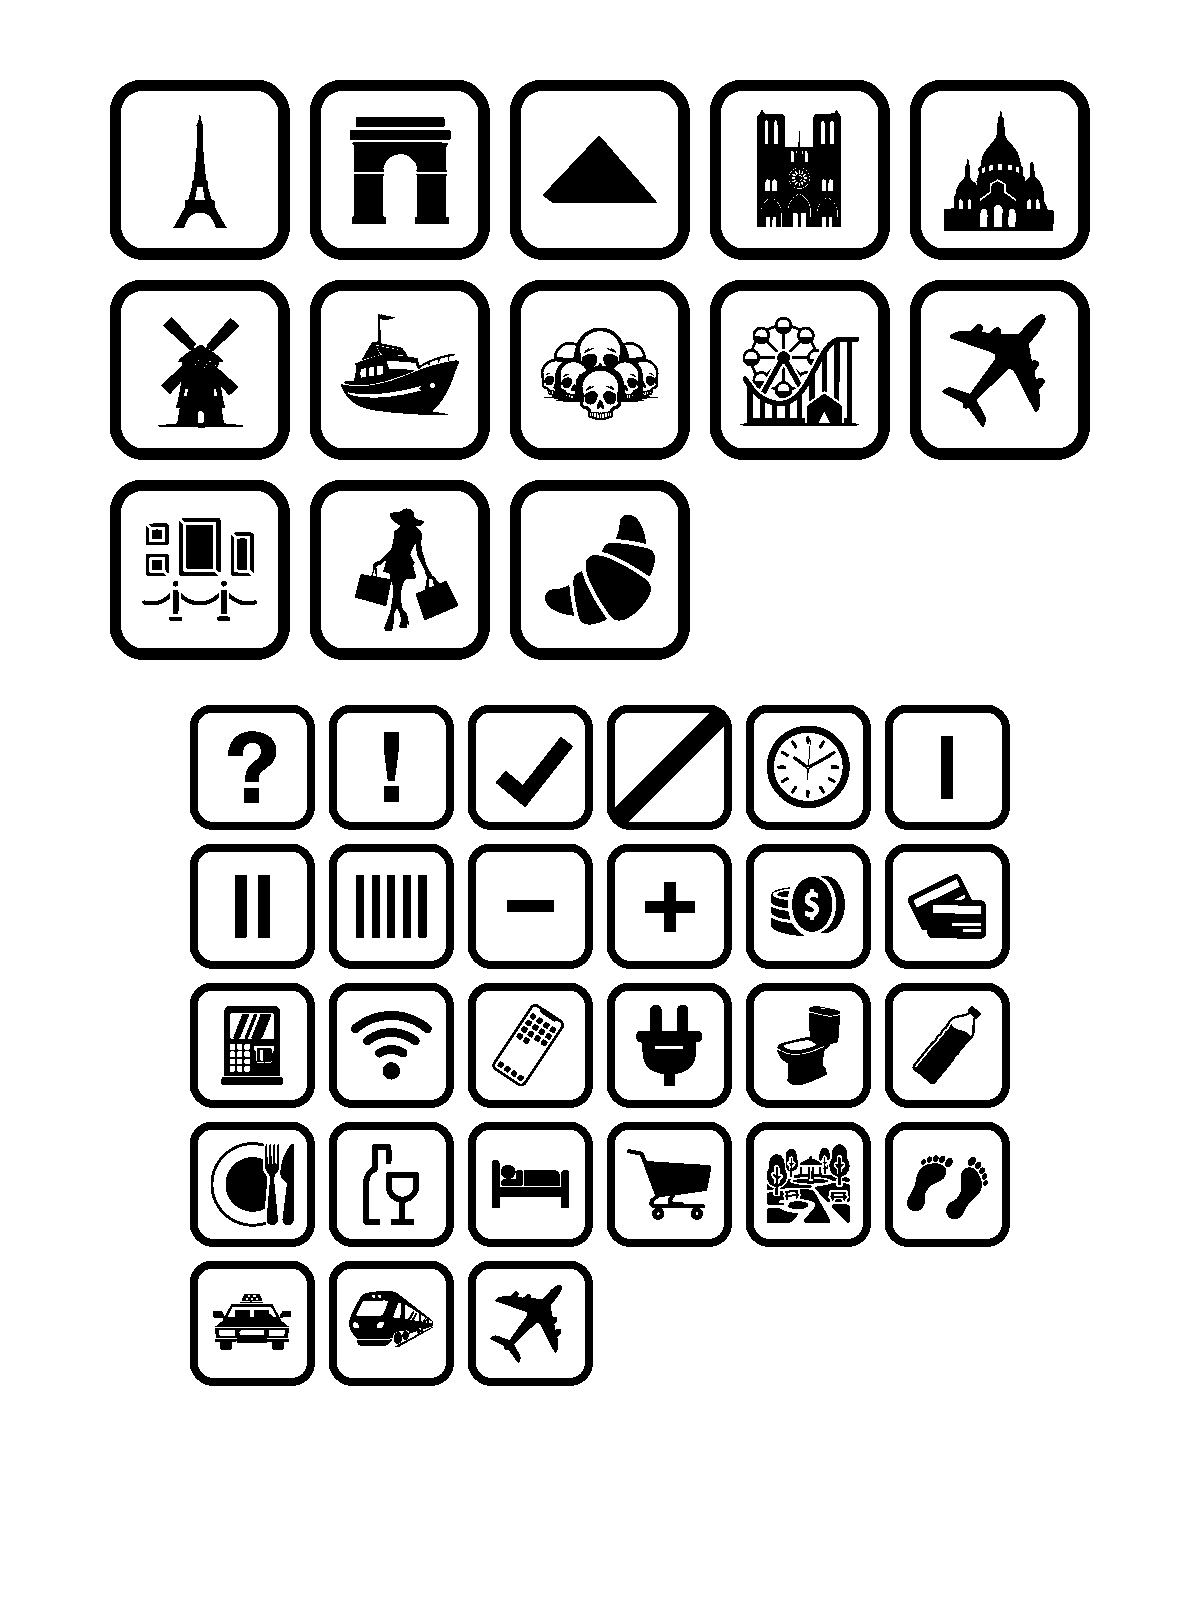
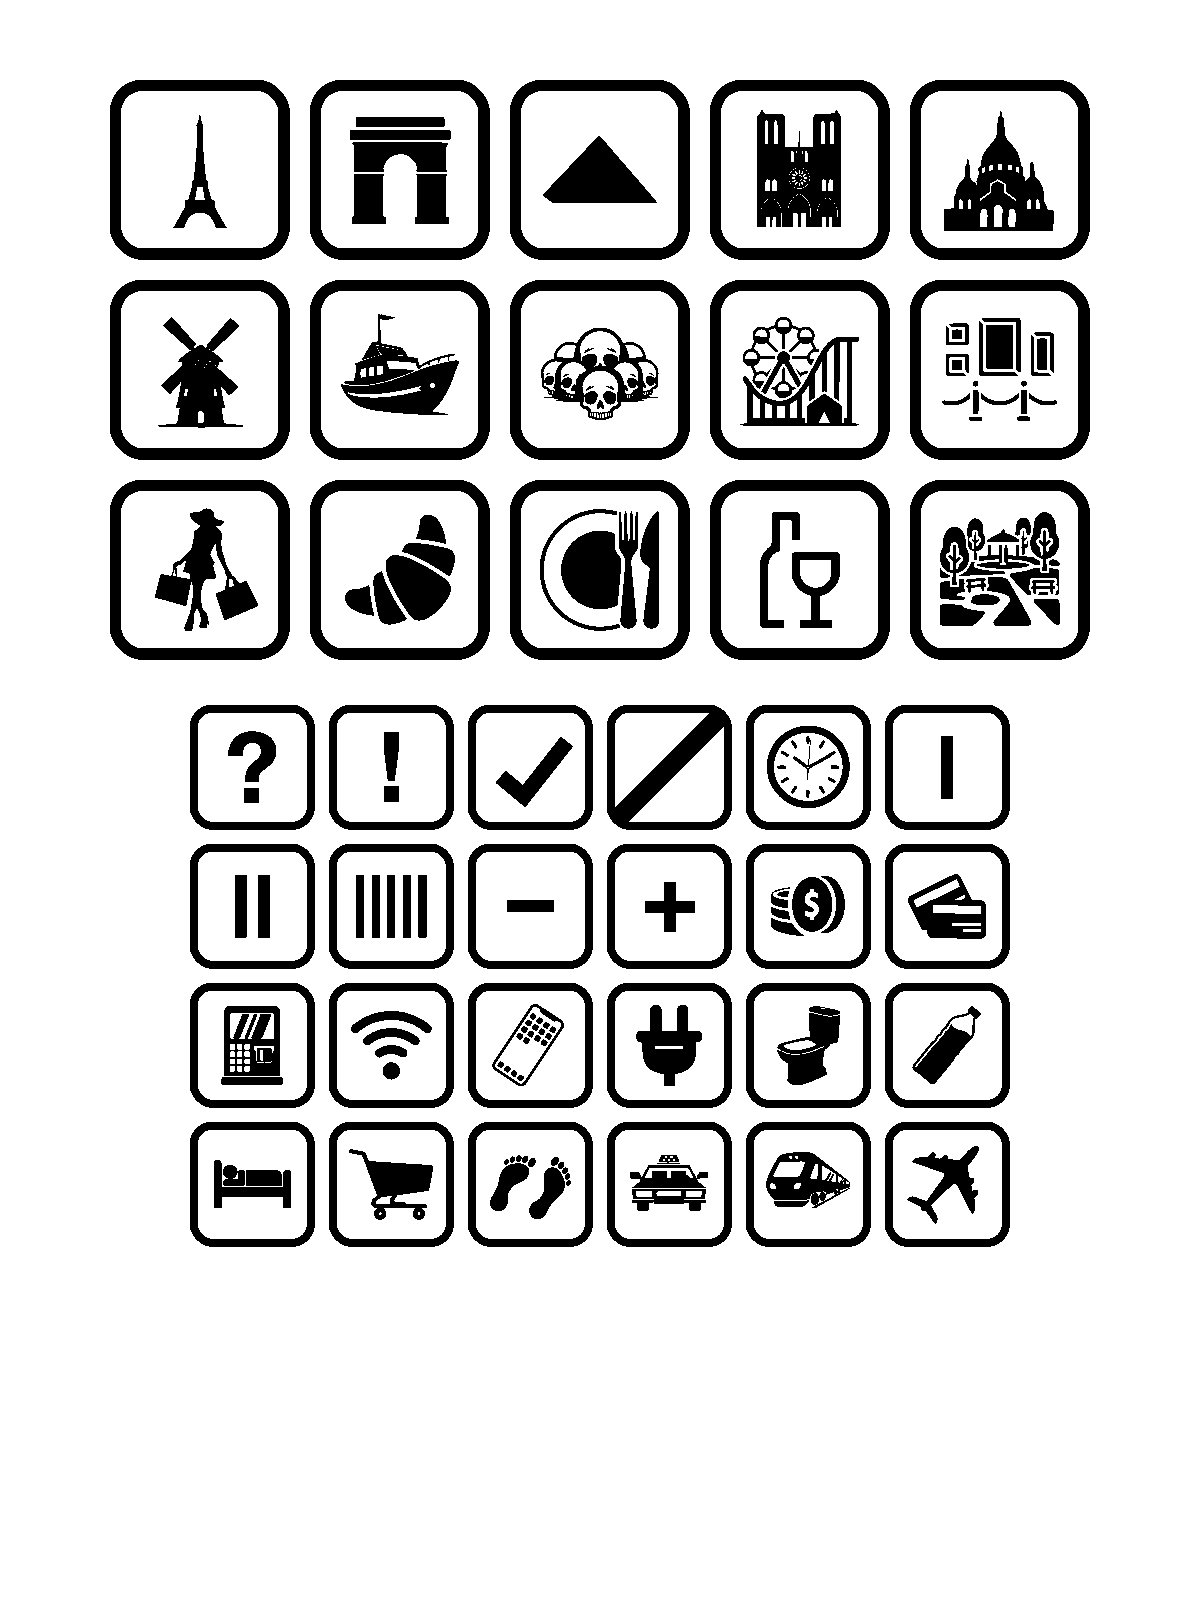
Merch: normalize Paris shirt layout (airport bottom-only; move food/bar/park to top)

diff --git a/tools/make_merch_layout.py b/tools/make_merch_layout.py
@@ -50,15 +50,18 @@ BOTTOM_SUBSET = [
     "power_plug",
     "need_toilet",
     "need_water",
-    "need_food",
-    "need_bar",
     "place_hotel",
     "place_shop",
-    "place_landmark_park",
     "move_feet",
     "move_taxi",
     "move_public",
     "place_airport",
+]
+
+TOP_EXTRA = [
+    "need_food",
+    "need_bar",
+    "place_landmark_park",
 ]
 
 
@@ -124,7 +127,8 @@ def main() -> int:
     out_preview = out_dir / "paris-shirt-preview-1200x1600.png"
 
     pack = json.loads(pack_path.read_text(encoding="utf-8"))
-    top_icons = list(pack.get("icons", []))
+    top_icons = [icon_id for icon_id in pack.get("icons", []) if icon_id != "place_airport"]
+    top_icons.extend(TOP_EXTRA)
 
     required = list(top_icons) + list(BOTTOM_SUBSET)
     missing = sorted({icon_id for icon_id in required if not (icons_dir / f"{icon_id}.svg").exists()})
